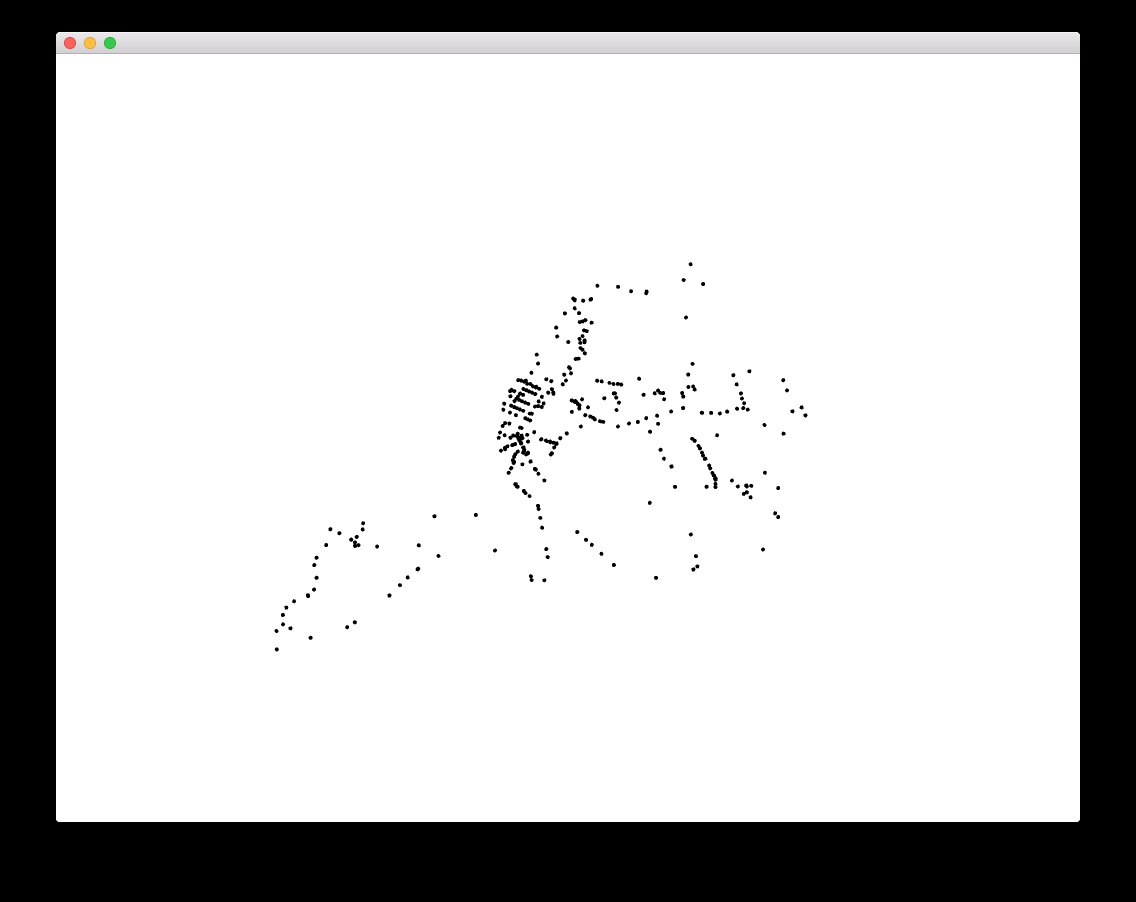
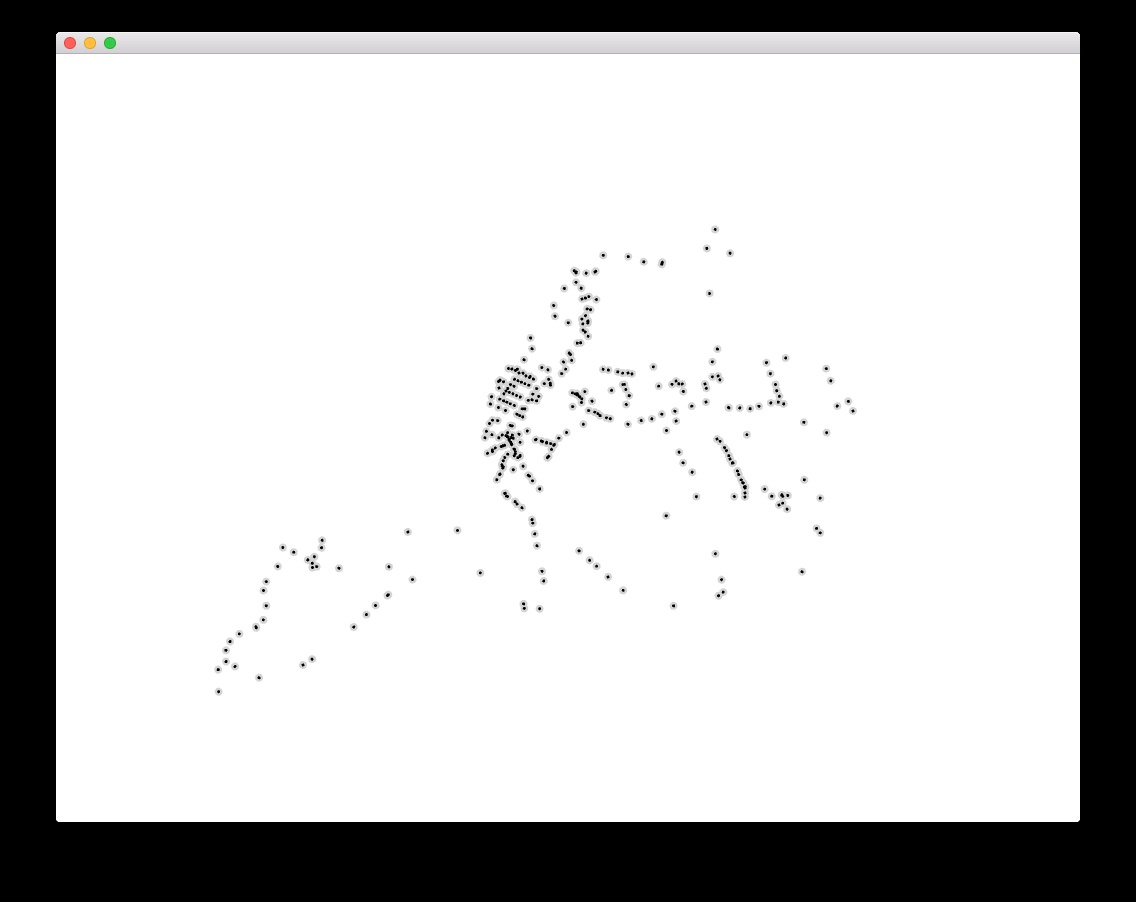
prettier rendering and updated screenshot

diff --git a/src/ofApp.cpp b/src/ofApp.cpp
@@ -122,16 +122,27 @@ void ofApp::update(){
 void ofApp::draw(){
     ofSetColor(0);
 
+    
+    // render larger grey circles
     for(int i=0;i<pts.size();i++){
         
+        float lat = (pts[i].x - avgX)*ofGetWidth()*1.2;
+        float lon = (pts[i].y - avgY)*ofGetWidth()*1.2;
+
+        ofSetColor(212);
+        ofDrawCircle(ofGetWidth()/2+lon, ofGetHeight()/2-lat, 4);
+    }
+    // render black dots
+    for(int i=0;i<pts.size();i++){
+
+        float lat = (pts[i].x - avgX)*ofGetWidth()*1.2;
+        float lon = (pts[i].y - avgY)*ofGetWidth()*1.2;
+   
+        ofSetColor(0);
+        ofDrawCircle(ofGetWidth()/2+lon, ofGetHeight()/2-lat, 1.5);
         
-        float lat = (pts[i].x - avgX)*ofGetWidth();
-        float lon = (pts[i].y - avgY)*ofGetWidth();
         
-        
-        
-        ofDrawCircle(ofGetWidth()/2+lon, ofGetHeight()/2-lat, 2);
-    };
+    }
 
 }
 
